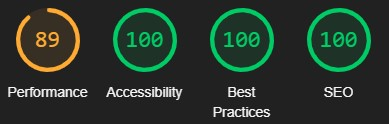
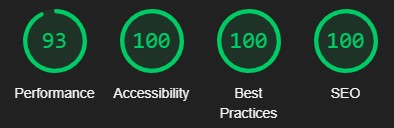
Add new lighthouse performance after converting some of the images

diff --git a/food.html b/food.html
@@ -48,7 +48,7 @@
     <!-- Top 5 Vegan Restaurants to Visit in Berlin, Germany  -->
     <article class="food-post">
         <h2 class="food-post-heading">Top 5 Vegan Restaurants to Visit in Berlin, Germany</h2>
-        <img src="assets/images/berlin.jpg" alt="Brandenburger Gate Berlin">
+        <img src="assets/images/berlin.webp" alt="Brandenburger Gate Berlin">
         <span><em>Saturday, 10.09.2022</em></span>
         <hr>
         <p>Veganism is on the rise, and no city exemplifies this trend better than Berlin. Suppose you're a vegan
@@ -59,7 +59,7 @@
         <hr>
         <section>
             <h3>Cafe Vux</h3>
-            <img src="assets/images/CafeVux.jpeg" alt="people order at counter next to a fridge full of cakes">
+            <img src="assets/images/CafeVux.webp" alt="people order at counter next to a fridge full of cakes">
             <p>If you have a sweet tooth, then this is the place for you. Cafe Vux specializes in - you guessed it - all
                 things cake. But don't worry, they have savoury options too. And everything is vegan!</p>
         </section>
@@ -111,7 +111,7 @@
     <!-- The Top 3 Vegan Restaurants in Dublin, Ireland -->
     <article id="dublin" class="food-post">
         <h2 class="food-post-heading">The Top 3 Vegan Restaurants in Dublin, Ireland</h2>
-        <img src="assets/images/dublin.jpg" alt="Tempel Bar Street in Dublin">
+        <img src="assets/images/dublin.webp" alt="Tempel Bar Street in Dublin">
         <span><em>Thursday, 08.09.2022</em></span>
         <hr>
         <p>We're always on the lookout for good vegan food when we travel. And we have to say, Dublin does
@@ -123,7 +123,7 @@
         <hr>
         <section>
             <h3>Cornucopia</h3>
-            <img src="assets/images/Cornucopia.jpg" alt="shot from above of two plated salads with food garnish around">
+            <img src="assets/images/Cornucopia.webp" alt="shot from above of two plated salads with food garnish around">
             <p>Cornucopia has been serving up delicious vegetarian and vegan food in Dublin since Sinead O'Connor was
                 topping the charts with "Nothing Compares 2 U." This restaurant is located in the heart of Dublin's city
                 centre and offers an extensive menu of both hot and cold dishes. Whether you're looking for a light

diff --git a/index.html b/index.html
@@ -61,7 +61,7 @@
         <hr>
         <div id="latest-posts">
             <div class="latest-posts-body">
-                <a href="food.html"><img class="latest-posts-image" src="assets/images/berlin.jpg"
+                <a href="food.html"><img class="latest-posts-image" src="assets/images/berlin.webp"
                         alt="Brandenburger Gate Berlin"></a>
                 <a class="title-link" href="food.html">
                     <h3 class="latest-posts-title">Top 5 Vegan Restaurants to Visit in Berlin, Germany</h3>
@@ -76,7 +76,7 @@
             </div>
 
             <div class="latest-posts-body">
-                <a href="travel.html"><img class="latest-posts-image" src="assets/images/bali.jpg"
+                <a href="travel.html"><img class="latest-posts-image" src="assets/images/bali.webp"
                         alt="Woman sitting on steps of a house overlooking a beach sourrounded by mountains"></a>
                 <a class="title-link" href="travel.html">
                     <h3 class="latest-posts-title">Top 3 Vegan Accomodations in Bali, Indonesia</h3>
@@ -90,7 +90,7 @@
             </div>
 
             <div class="latest-posts-body">
-                <a href="/food.html#dublin"><img class="latest-posts-image" src="assets/images/dublin.jpg"
+                <a href="/food.html#dublin"><img class="latest-posts-image" src="assets/images/dublin.webp"
                         alt="Tempel Bar Street in Dublin"></a>
                 <a class="title-link" href="/food.html#dublin">
                     <h3 class="latest-posts-title">The Top 3 Vegan Restaurants in Dublin, Ireland</h3>

diff --git a/travel.html b/travel.html
@@ -46,7 +46,7 @@
     <h1 id="travel-heading">Travel Posts</h1>
     <article class="travel-post">
         <h2 class="travel-post-heading">Top 3 Vegan Accomodations in Bali, Indonesia</h2>
-        <img src="assets/images/bali.jpg"
+        <img src="assets/images/bali.webp"
             alt="Woman sitting on steps of a house overlooking a beach sourrounded by mountains">
         <span><em>Friday, 09.09.2022</em></span>
         <hr>
@@ -68,7 +68,7 @@
         <hr>
         <section>
             <h3>Bali Eco Stay</h3>
-            <img src="assets/images/BaliEcoStay.jpg" alt="Tree House surrounded by forrest">
+            <img src="assets/images/BaliEcoStay.webp" alt="Tree House surrounded by forrest">
             <p>For those who want to get back to nature, Bali Eco Stay is the perfect place to
                 stay. This working farm offers guests the chance to get their hands dirty and learn about
                 organic farming methods. And when you're not busy tending to the rice paddies or collecting eggs
@@ -79,7 +79,7 @@
 
         <section>
             <h3>Chapung Sebali</h3>
-            <img src="assets/images/ChapungSebali.jpg"
+            <img src="assets/images/ChapungSebali.webp"
                 alt="view of the pool and terrace and woman sitting on rock in pool ">
             <p>Located in Ubud, Chapung Sebali is a haven for health-conscious travellers. As well as offering
                 yoga and meditation classes, this luxury retreat also serves up some of the best vegan food in

diff --git a/about-us.html b/about-us.html
@@ -47,7 +47,7 @@
         <h1 id="about-us-heading">Who we are <i class="fa-solid fa-venus"></i></h1>
         <div id="about-us">
             <div class="about-us-content">
-                <img src="assets/images/Lila.jpg" alt="Headshot of woman smiling">
+                <img src="assets/images/Lila.webp" alt="Headshot of woman smiling">
                 <h2>Lila,30</h2>
                 <p>I'm Lila, a pastry chef originally from Germany. I started travelling at the age of 19 and never
                     stopped- my first stop was New Zealand and I'm currently living in Ireland. I've visited more than

diff --git a/TESTING.md b/TESTING.md
@@ -73,3 +73,4 @@ The following bugs were identified during testing and fixed accordingly :
 * The input field for email address in the form had the incorrect value, so i had to fix it to acchieve the dessired result.
 * When hitting the submit button for the newsletter form an error 404 page opened. I inserted the action to have it open to Code Institutes's form dump.
 * Resizing all the images on travel.html and food.html to be identical in size to acchieve better responsiveness. 
+* Converting some of the images from .jpeg to .webp for faster performance on page.
